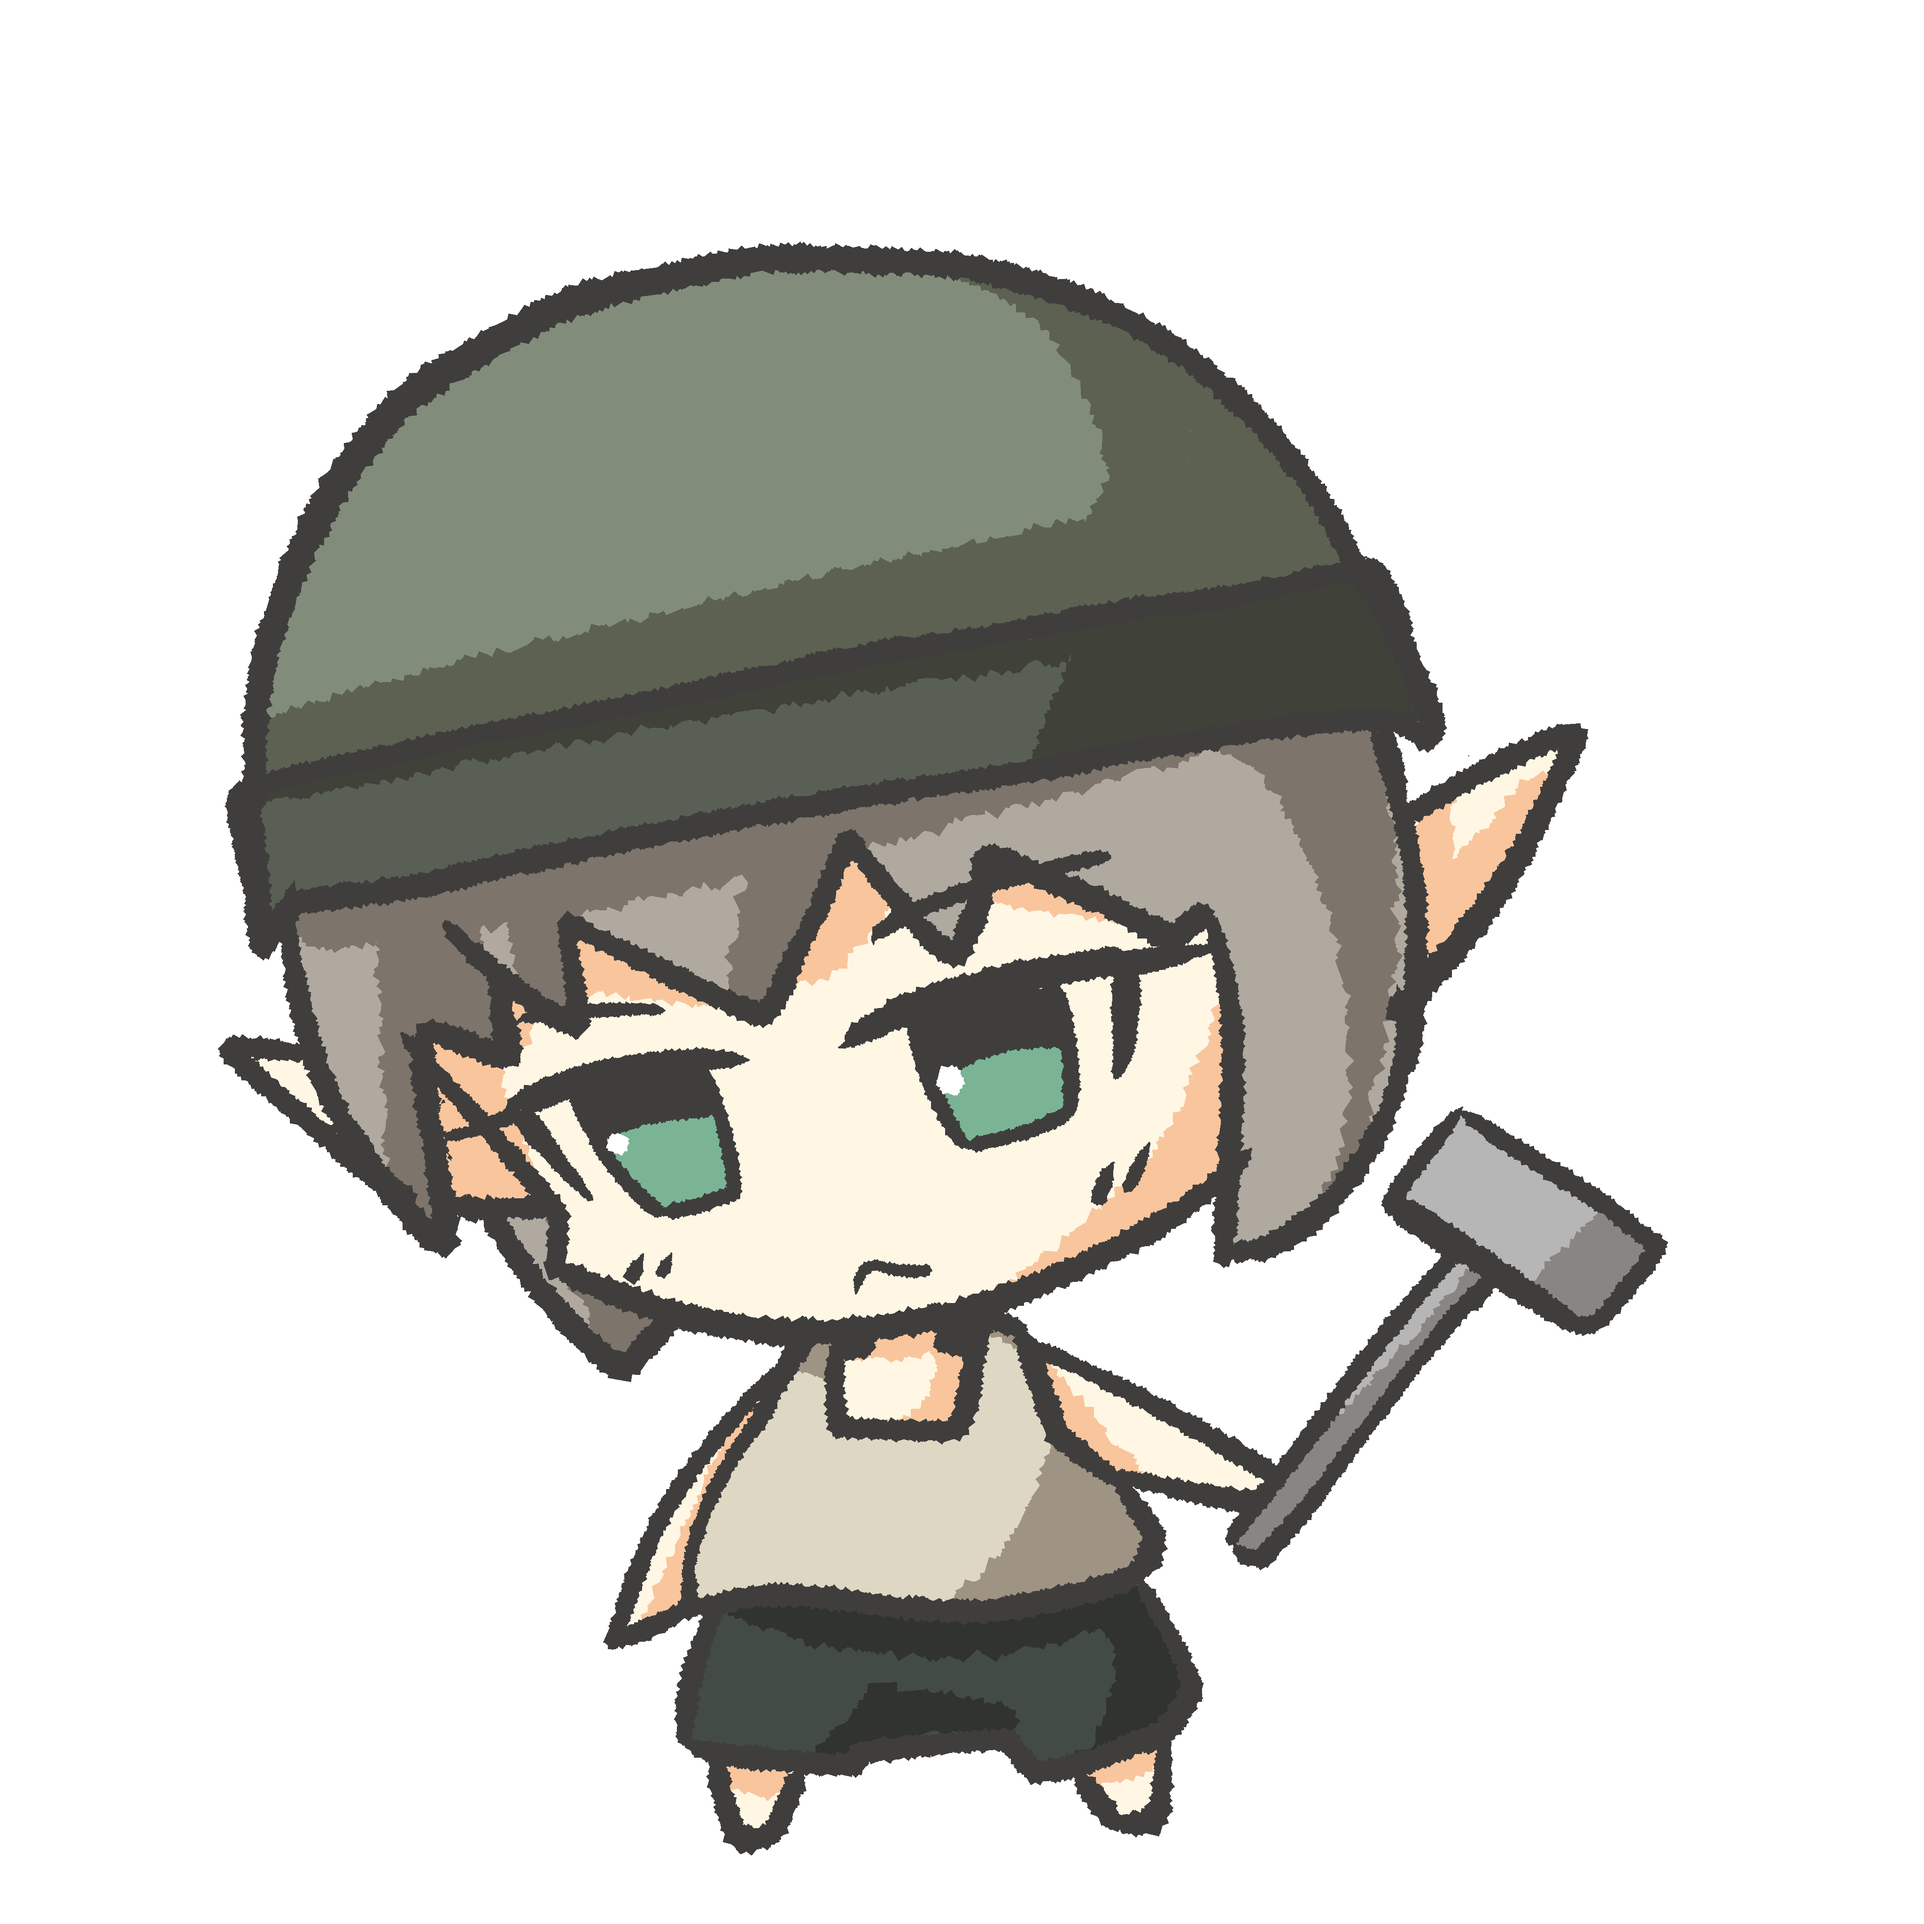
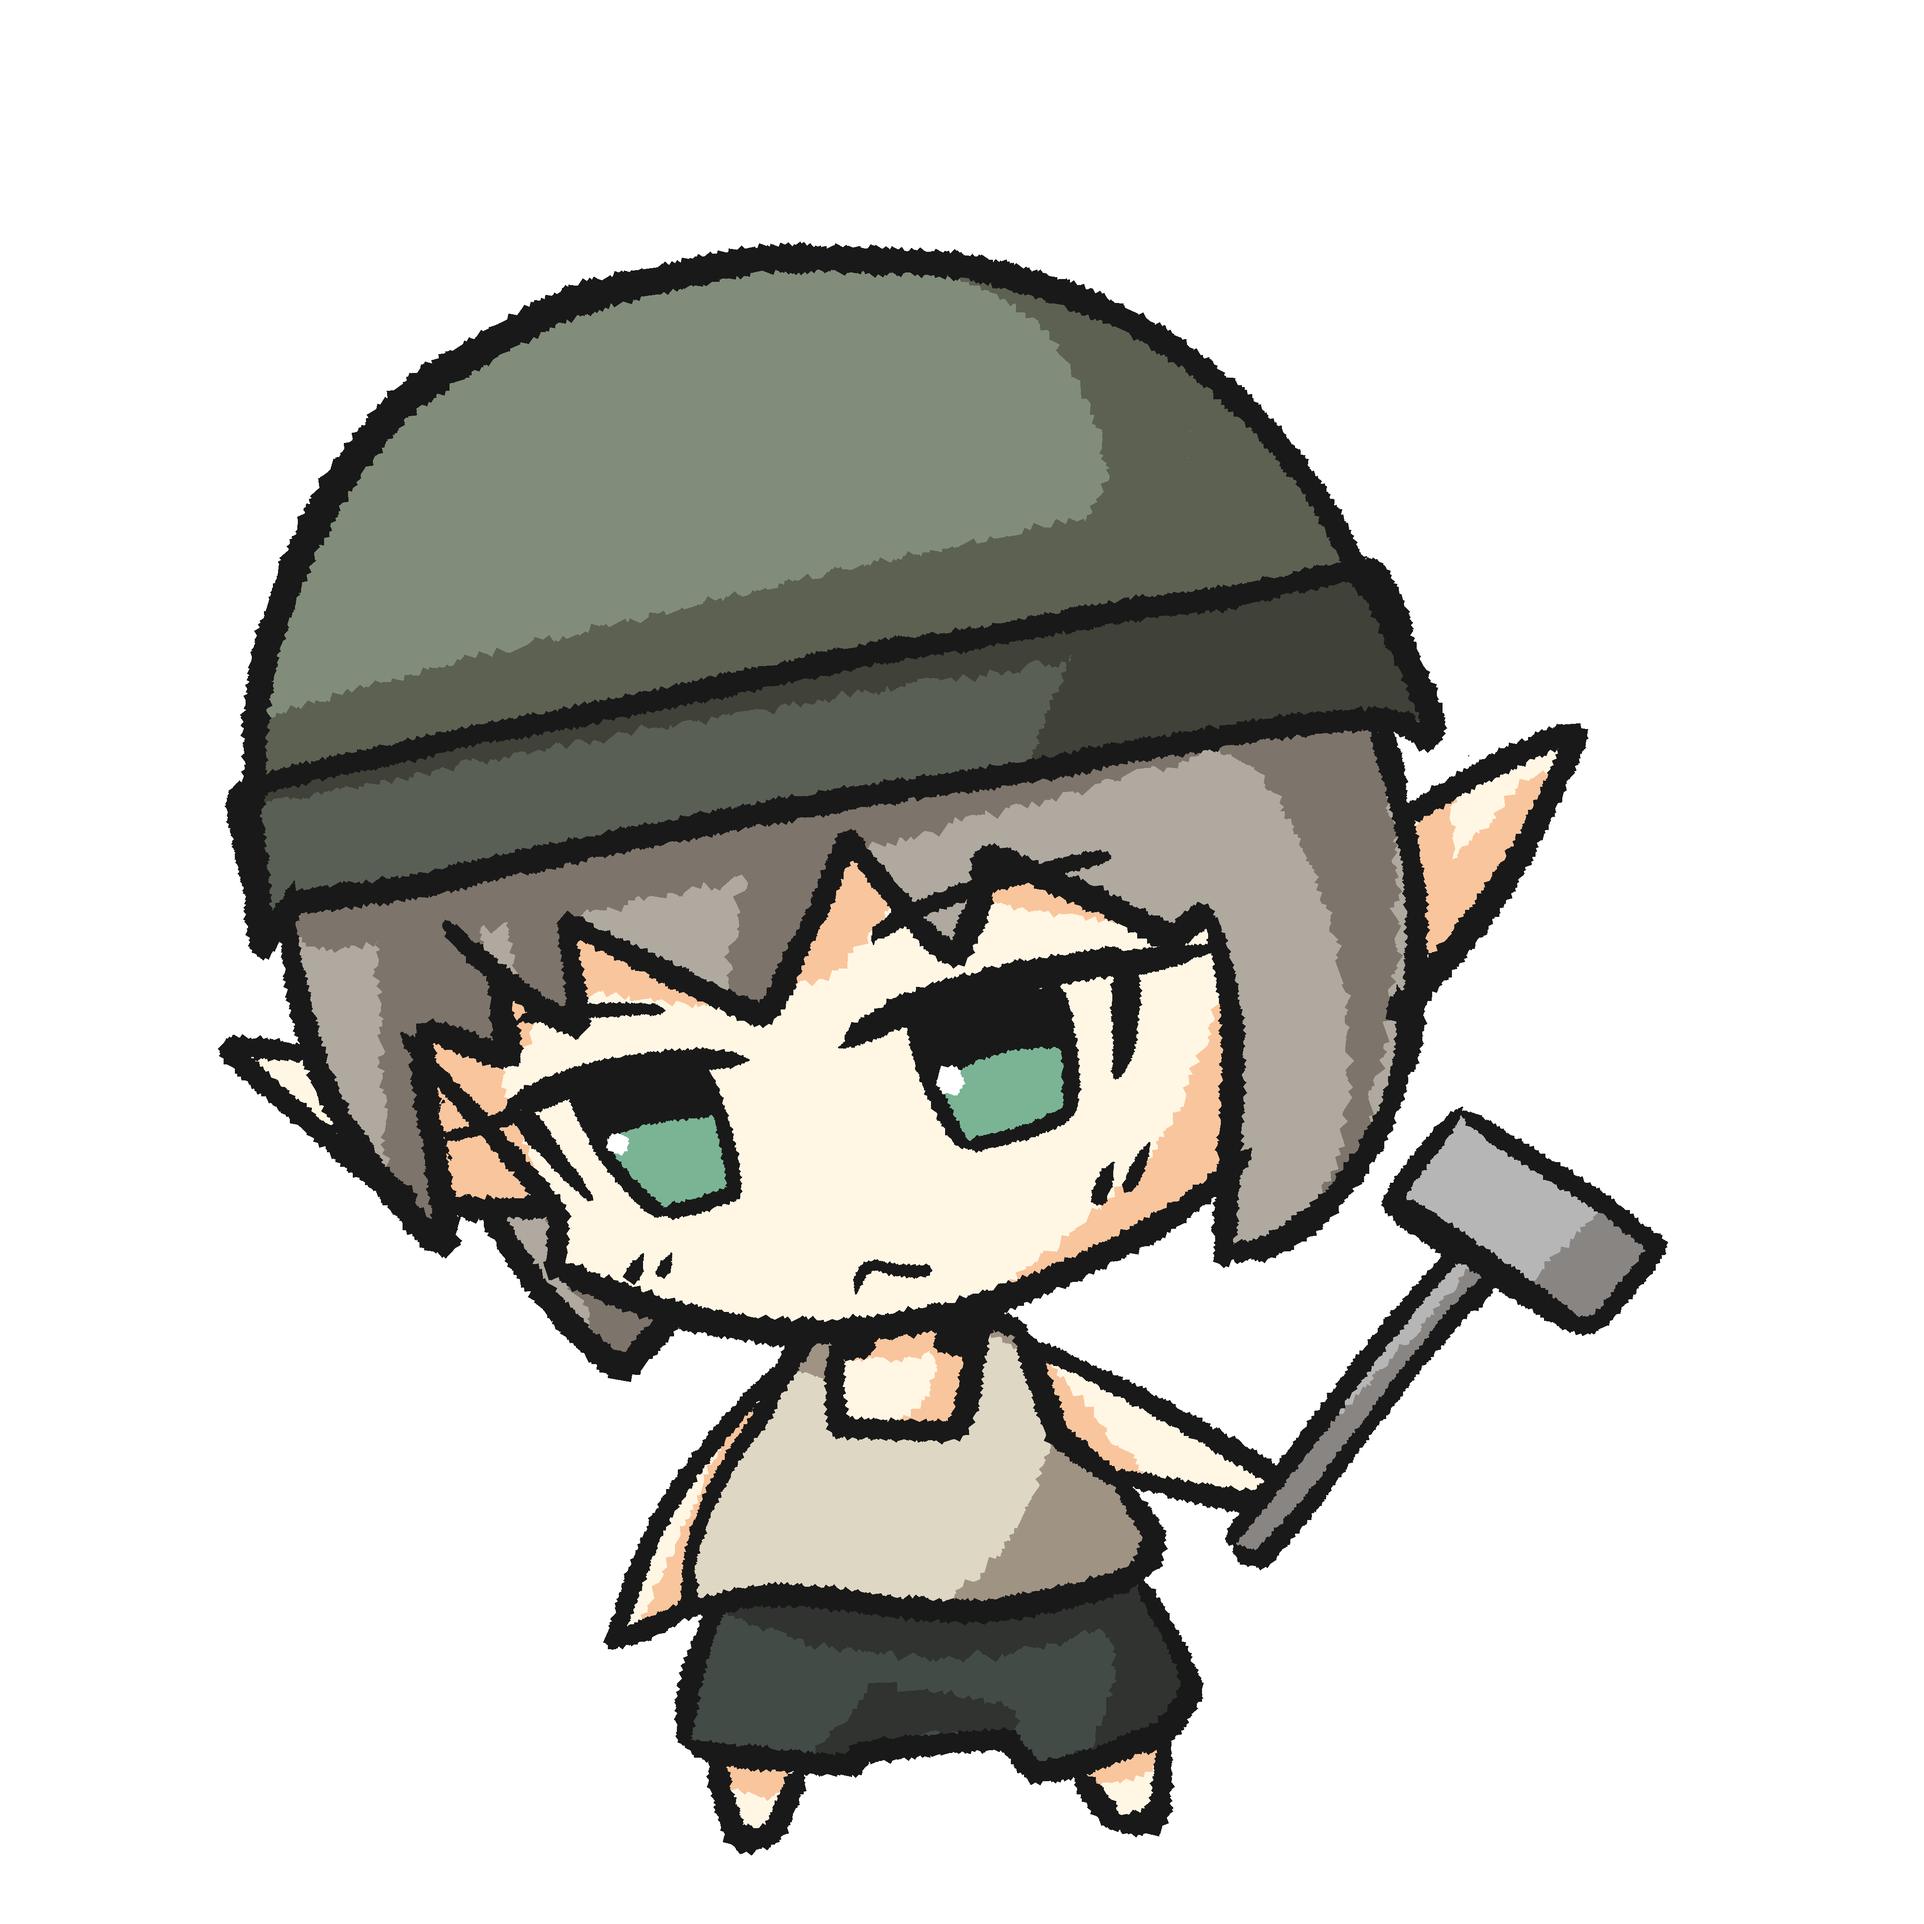
輪郭線の統一

Changed region(s): [[0.0938, 0.125, 0.875, 0.9688], [0.5625, 0.1562, 0.6562, 0.2188], [0.375, 0.5938, 0.4062, 0.625]]

diff --git a/Assets/Scripts/Map/DialogMenu.cs b/Assets/Scripts/Map/DialogMenu.cs
@@ -1,0 +1,18 @@
+using System.Collections;
+using System.Collections.Generic;
+using UnityEngine;
+using TMPro;
+
+public class DialogMenu : UIMenu {
+    public TextMeshProUGUI content;
+    public TextMeshProUGUI title;
+
+    public void setText(string text)
+    {
+        content.text = text;
+    }
+    public void setTitle(string text)
+    {
+        title.text = text;
+    }
+}
